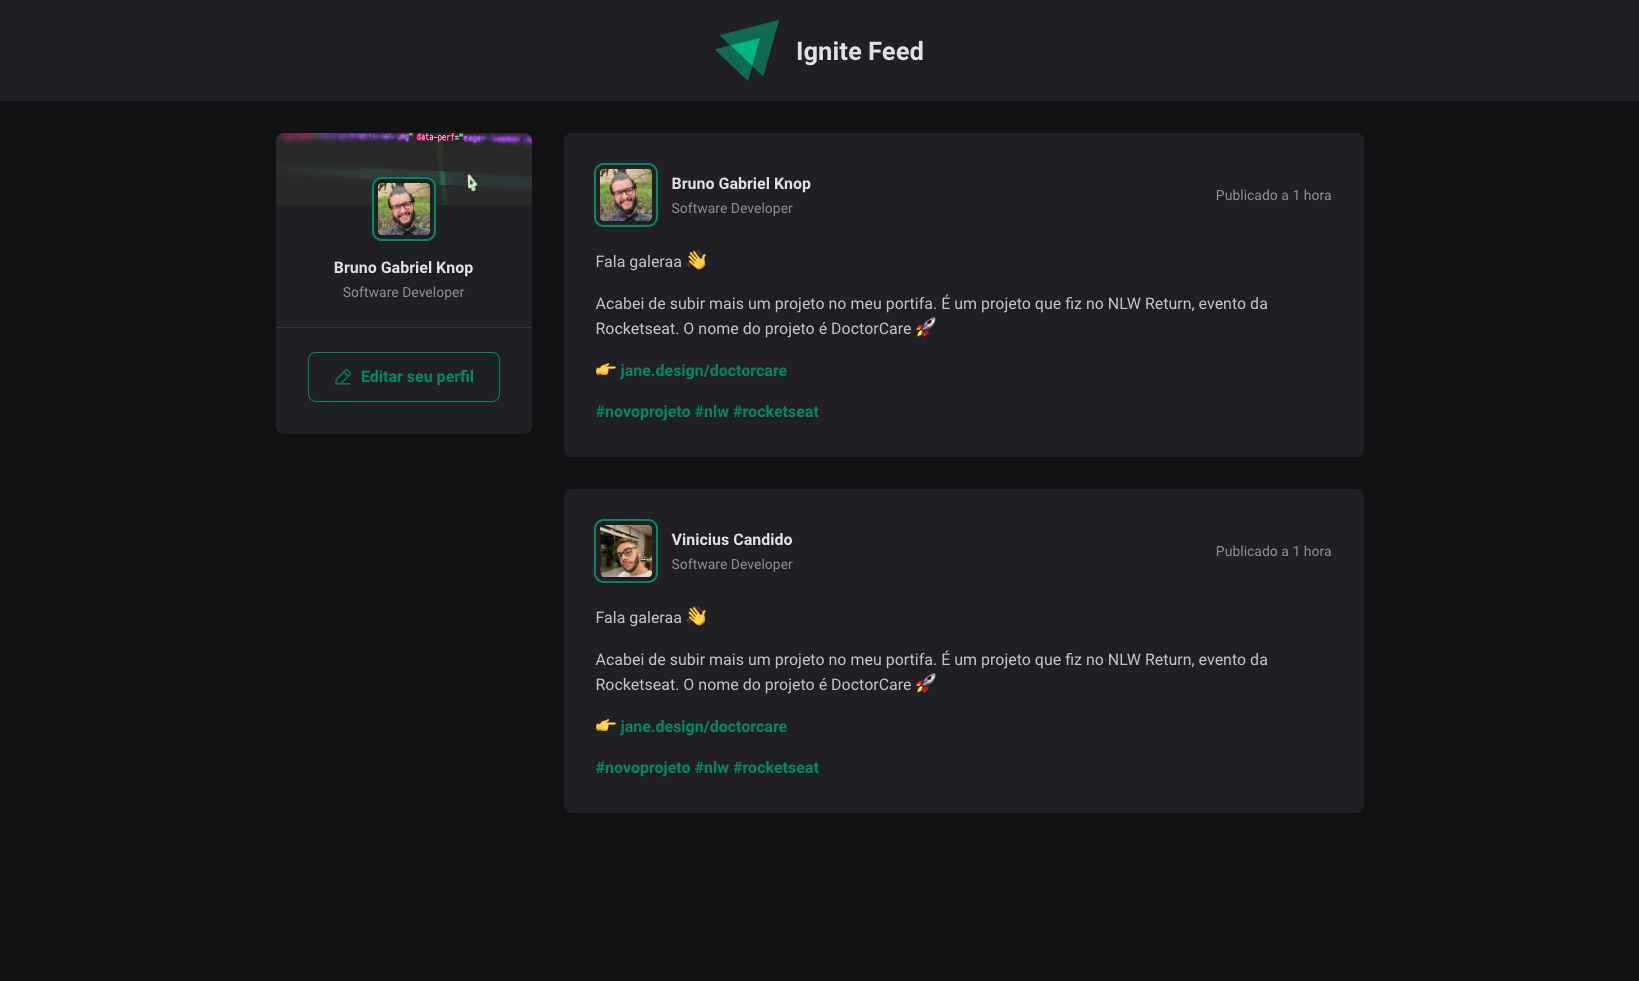
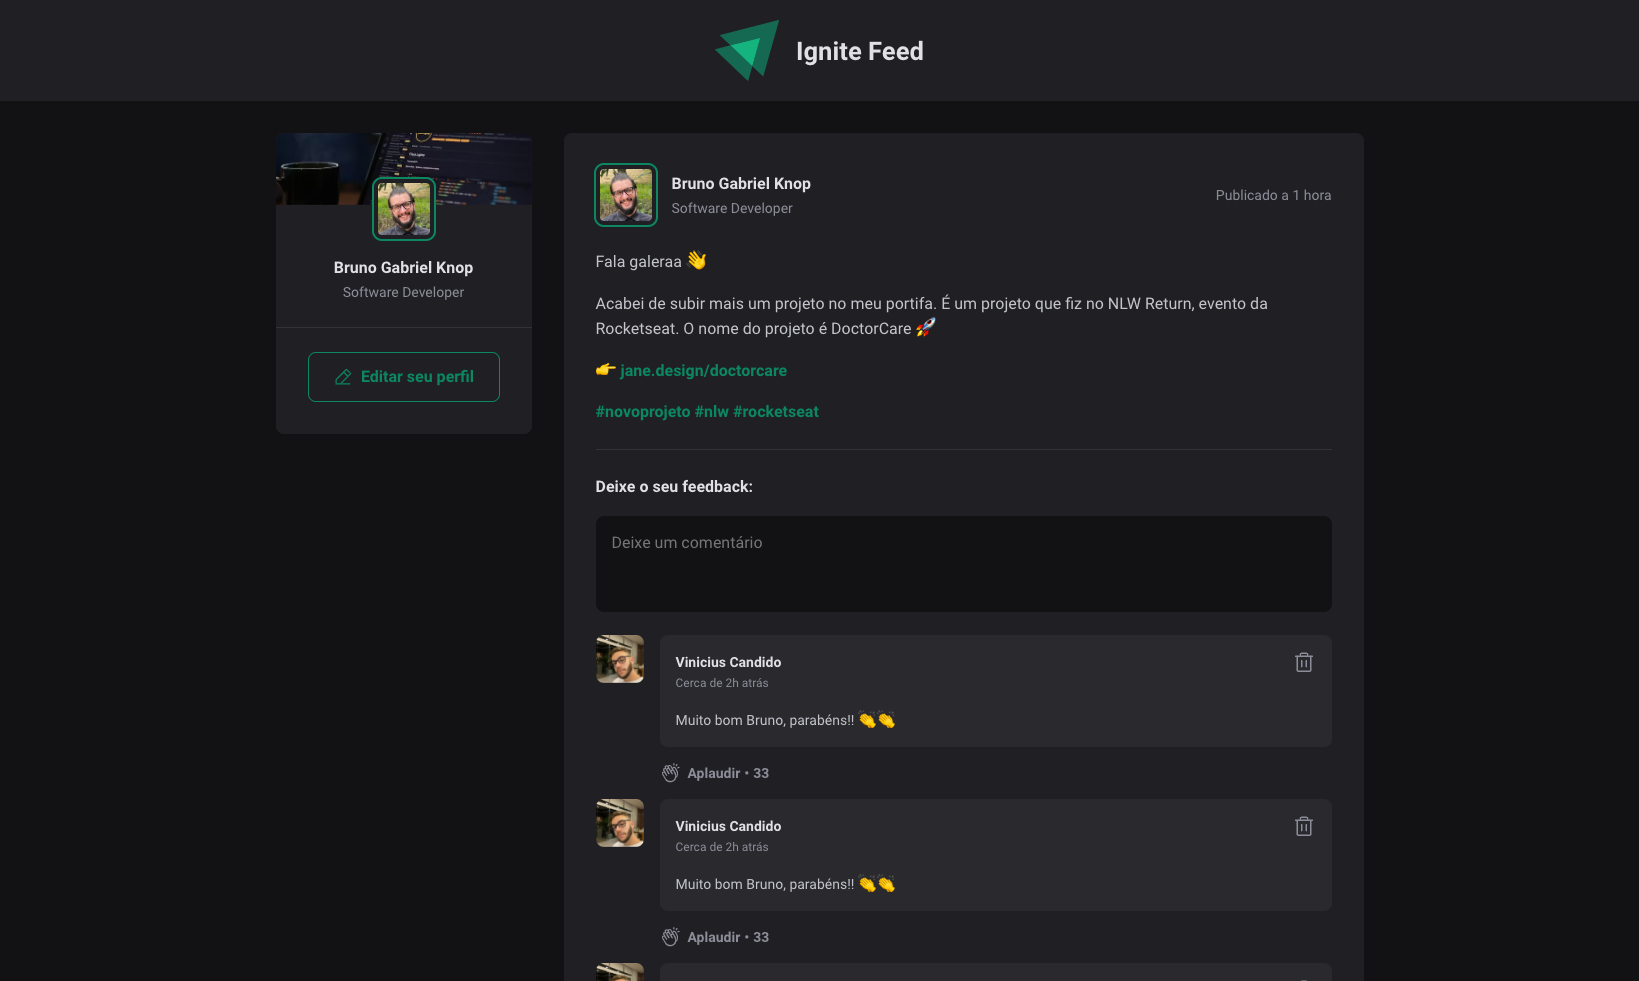
Finalização da parte visual estática

diff --git a/src/modules/Comment.module.css b/src/modules/Comment.module.css
@@ -1,0 +1,102 @@
+.comment {
+  width: 100%;
+  display: flex;
+  gap: 1rem;
+}
+
+.comment + .comment {
+  margin-top: 1rem;
+}
+
+.avatar {
+  width: 3rem;
+  height: 3rem;
+  border-radius: 8px;
+}
+
+.commentBox {
+  flex: 1;
+}
+
+.commentContent {
+  background: var(--gray-700);
+  border-radius: 8px;
+  padding: 1rem;
+}
+
+.commentContent header {
+  display: flex;
+  align-items: flex-start;
+  justify-content: space-between;
+}
+
+.author strong {
+  display: block;
+  font-size: 0.875rem;
+  font-weight: bold;
+  color: var(--gray-100);
+  line-height: 1.6;
+}
+
+.author time {
+  display: block;
+  font-size: 0.75rem;
+  color: var(--gray-400);
+  line-height: 1.6;
+}
+
+.commentContent header button {
+  background: transparent;
+  border: 0;
+  cursor: pointer;
+  color: var(--gray-400);
+  line-height: 0;
+  border-radius: 4px;
+
+  transition: color 0.1s;
+}
+
+.commentContent header button:hover {
+  color: var(--red-500);
+}
+
+.commentContent p {
+  margin-top: 1rem;
+  font-size: 0.875rem;
+  line-height: 1.6;
+  color: var(--gray-300);
+}
+
+.commentBox footer {
+  margin-top: 1rem;
+}
+
+.commentBox footer button {
+  background: transparent;
+  border: 0;
+  border-radius: 4px;
+  color: var(--gray-400);
+  cursor: pointer;
+  
+  font-size: 0.875rem;
+  font-weight: bold;
+
+  display: flex;
+  align-items: center;
+
+  transition: color 0.2s;
+}
+
+.commentBox footer button:hover {
+  color: var(--green-300);
+}
+
+.commentBox footer button svg {
+  margin-right: 0.5rem;
+}
+
+.commentBox footer button span::before {
+  content: '\2022';
+  padding: 0 0.25rem;
+}
+

diff --git a/src/modules/Post.module.css b/src/modules/Post.module.css
@@ -67,3 +67,66 @@
   border: 4px solid var(--gray-800);
   outline: 2px solid var(--green-500);
 }
+
+.commentForm {
+  width: 100%;
+  margin-top: 1.5rem;
+  padding-top: 1.5rem;
+  border-top: 1px solid var(--gray-600);
+  line-height: 1.6;
+}
+
+.commentForm > strong {
+  line-height: 1.6;
+  color: var(--gray-100);
+}
+
+.commentForm textarea {
+  width: 100%;
+  background: var(--gray-900);
+  border: 0;
+  resize: none;
+  height: 6rem;
+  padding: 1rem;
+  border-radius: 8px;
+  color: var(--gray-100);
+  line-height: 1.4;
+  margin-top: 1rem;
+
+  transition: border 0.2s;
+}
+
+.commentForm textarea:focus {
+  border: 1px solid var(--green-500);
+}
+
+.commentForm footer {
+  visibility: hidden;
+  max-height: 0;
+}
+
+.commentForm:focus-within footer {
+  visibility: visible;
+  max-height: none;
+}
+
+.commentForm button[type='submit'] {
+  padding: 1rem 1.5rem;
+  margin-top: 1rem;
+  border-radius: 8px;
+  border: 0;
+  background: var(--green-500);
+  color: var(--white);
+  font-weight: bold;
+  cursor: pointer;
+
+  transition: background 0.2s;
+}
+
+.commentForm button[type='submit']:hover {
+  background: var(--green-300);
+}
+
+.commentList {
+  margin-top: 1rem;
+}

diff --git a/src/modules/Comment.jsx b/src/modules/Comment.jsx
@@ -1,0 +1,30 @@
+import { Trash, HandsClapping } from '@phosphor-icons/react'
+import styles from './Comment.module.css';
+
+export function Comment () {
+  return (
+    <div className={styles.comment}>
+      <img className={styles.avatar} src="https://github.com/vinibcandido.png"/>
+      <div className={styles.commentBox}>
+        <div className={styles.commentContent}>
+          <header>
+            <div className={styles.author}>
+              <strong>Vinicius Candido</strong>
+              <time title='31 de Julho de 2023' dateTime='2023-07-31 08:00:00'>Cerca de 2h atrás</time>
+            </div>
+            <button>
+              <Trash size={24}/>
+            </button>
+          </header>
+          <p>Muito bom Bruno, parabéns!! 👏👏</p>
+        </div>
+        <footer>
+          <button>
+            <HandsClapping size={20}/>
+            Aplaudir <span>33</span>
+          </button>
+        </footer>
+      </div>
+    </div>
+  )
+}

diff --git a/src/modules/Sidebar.jsx b/src/modules/Sidebar.jsx
@@ -5,7 +5,7 @@ export function Sidebar(){
   return (
     <aside className={styles.sidebar}>
       
-      <img className={styles.cover} src="https://images.unsplash.com/photo-1558544956-15f3c317e06a?ixlib=rb-4.0.3&ixid=M3wxMjA3fDB8MHxwaG90by1wYWdlfHx8fGVufDB8fHx8fA%3D%3D&auto=format&fit=crop&w=550&q=50"/>
+      <img className={styles.cover} src="https://images.unsplash.com/photo-1607705703571-c5a8695f18f6?ixlib=rb-4.0.3&ixid=M3wxMjA3fDB8MHxwaG90by1wYWdlfHx8fGVufDB8fHx8fA%3D%3D&auto=format&fit=crop&w=550&q=50"/>
       
       <div className={styles.profile}>
         <img className={styles.avatar} src="https://github.com/brunoknop.png" />

diff --git a/src/modules/Post.jsx b/src/modules/Post.jsx
@@ -1,3 +1,4 @@
+import { Comment } from './Comment';
 import styles from './Post.module.css';
 
 export function Post(props){
@@ -23,7 +24,19 @@ export function Post(props){
            <a href="#">#rocketseat</a></p>
       </div>
 
-    </article>
+      <form className={styles.commentForm}>
+        <strong>Deixe o seu feedback:</strong>
+        <textarea placeHolder='Deixe um comentário'/>
+        <footer>
+          <button type='submit'>Comentar</button>
+        </footer>
+      </form>
 
+      <div className={styles.commentList}>
+        <Comment />
+        <Comment />
+        <Comment />
+      </div>
+    </article>
   )
 }

diff --git a/src/global.css b/src/global.css
@@ -11,6 +11,13 @@
 
   --green-300: #00b37e;
   --green-500: #00875F;
+
+  --red-500: #f75a68;
+}
+
+:focus {
+  outline: transparent;
+  box-shadow: 0 0 0 2px var(--green-500);
 }
 
 * {

diff --git a/README.md b/README.md
@@ -19,7 +19,7 @@ Este projeto é o front-end de um feed de comentários e é o objeto de estudo d
 ## 🚀 Tecnologias
 Esse projeto foi desenvolvido com as seguintes tecnologias:
 - React
-- Vite
+- [Vite](https://vitejs.dev)
 
 ## 🔖 Layout
 Você pode visualizar o layout do projeto através [DESSE LINK](https://www.figma.com/community/file/1113573231685349036). É necessário ter conta no [Figma](https://www.figma.com/) para acessá-lo.
